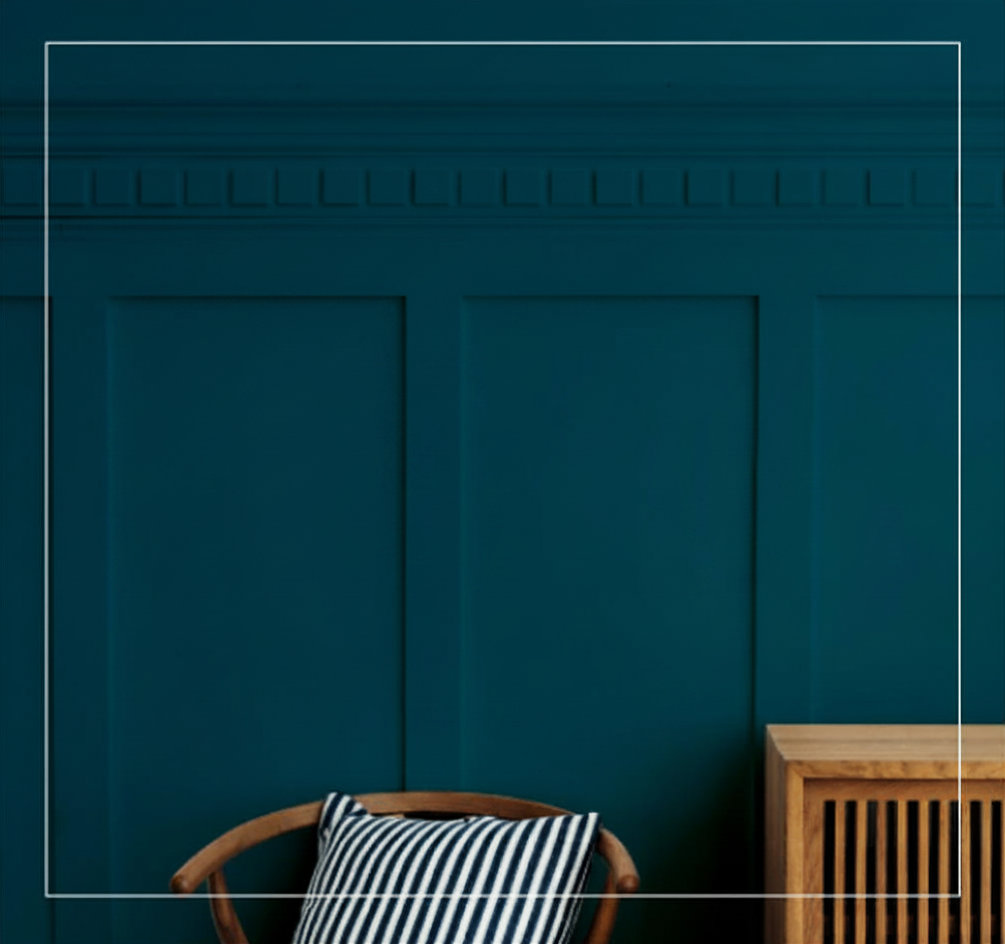
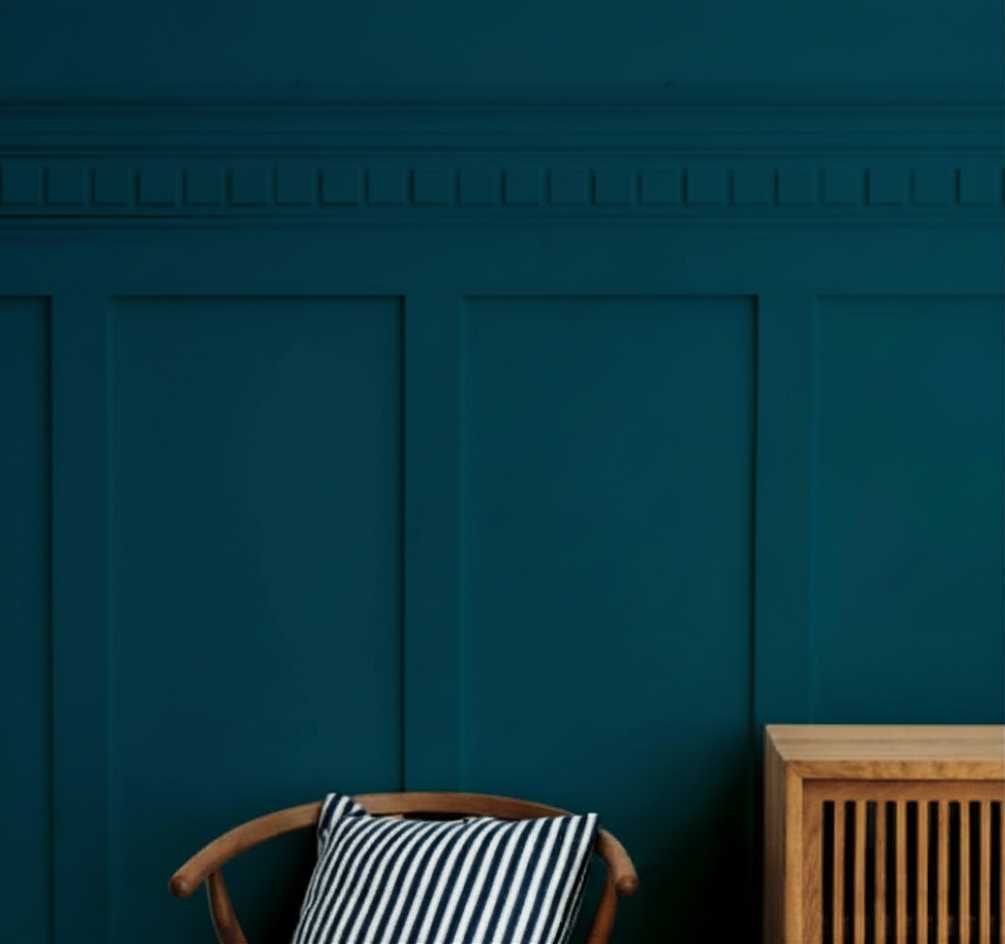
Added Testimonial section

Changed region(s): [[0.0308, 0.0307, 1.0, 1.0]]

diff --git a/src/components/ClientFeedback.tsx b/src/components/ClientFeedback.tsx
@@ -1,0 +1,98 @@
+import { ChevronLeft, ChevronRight, Quote, Star } from "lucide-react";
+import testimonialBg from "../assets/testimonial-bg.png";
+import feedbacks from "../static/feedbacks";
+
+export default function ClientFeedback() {
+    return (
+        <section
+            className="w-full py-16 lg:py-24 relative bg-[#F9F8F6]"
+            style={{
+                backgroundImage: `url(${testimonialBg})`,
+                backgroundSize: "cover",
+                backgroundPosition: "center",
+                backgroundRepeat: "no-repeat",
+            }}
+        >
+            <div className="max-w-7xl mx-auto px-4 md:px-8 lg:px-12 relative z-10">
+                {/* --- 1. Centered Section Header --- */}
+                <div className="text-center mb-12">
+                    <span className="inline-block bg-[#444] text-white text-[10px] font-bold px-3 py-1 tracking-widest uppercase mb-3">
+                        Testimonials
+                    </span>
+                    <h2 className="text-3xl md:text-4xl font-bold text-white">
+                        Client Feedback
+                    </h2>
+                </div>
+
+                {/* --- 2. Feedback Cards Grid --- */}
+                <div className="grid grid-cols-1 md:grid-cols-2 lg:grid-cols-3 gap-8">
+                    {feedbacks.map((feedback) => (
+                        <div
+                            key={feedback.id}
+                            className="bg-white p-8 md:p-10 rounded-sm shadow-sm hover:shadow-md transition-shadow duration-300 relative"
+                        >
+                            {/* Decorative Quote Icon Background */}
+                            <div className="absolute top-8 right-8 text-gray-100">
+                                <Quote
+                                    size={60}
+                                    fill="currentColor"
+                                    strokeWidth={0}
+                                />
+                            </div>
+
+                            <div className="relative z-10">
+                                {/* Star Rating */}
+                                <div className="flex items-center gap-1 mb-6">
+                                    {[...Array(5)].map((_, i) => (
+                                        <Star
+                                            key={i}
+                                            size={16}
+                                            className={
+                                                i < feedback.rating
+                                                    ? "fill-[#FFB340] text-[#FFB340]"
+                                                    : "fill-gray-200 text-gray-200"
+                                            }
+                                        />
+                                    ))}
+                                </div>
+
+                                {/* Comment Text */}
+                                <p className="text-gray-600 text-[15px] leading-relaxed mb-8 italic">
+                                    "{feedback.comment}"
+                                </p>
+
+                                {/* User Info (Avatar + Name) */}
+                                <div className="flex items-center gap-4">
+                                    <div className="w-14 h-14 rounded-full overflow-hidden border-2 border-[#EEDCC9]">
+                                        <img
+                                            src={feedback.image}
+                                            alt={feedback.name}
+                                            className="w-full h-full object-cover"
+                                        />
+                                    </div>
+                                    <div>
+                                        <h4 className="text-gray-900 font-bold text-[15px]">
+                                            {feedback.name}
+                                        </h4>
+                                        <span className="text-[#C69C6D] text-xs font-semibold">
+                                            {feedback.role}
+                                        </span>
+                                    </div>
+                                </div>
+                            </div>
+                        </div>
+                    ))}
+                </div>
+
+                <div className="flex justify-center items-center gap-4 mt-12">
+                    <button className="w-12 h-12 rounded-full border border-[#C69C6D] flex items-center justify-center text-white hover:bg-[#C69C6D] hover:text-white hover:border-[#C69C6D] transition-colors shadow-sm">
+                        <ChevronLeft size={24} strokeWidth={2} />
+                    </button>
+                    <button className="w-12 h-12 border border-[#C69C6D] rounded-full flex items-center justify-center text-white hover:bg-[#b0875b] transition-colors shadow-sm">
+                        <ChevronRight size={24} strokeWidth={2} />
+                    </button>
+                </div>
+            </div>
+        </section>
+    );
+}

diff --git a/src/components/SpecialOffers.tsx b/src/components/SpecialOffers.tsx
@@ -43,23 +43,26 @@ export default function SpecialOffers() {
 
     return (
         <section className="w-full py-8 mb-10">
-            <div className="grid grid-cols-1 lg:grid-cols-2 gap-8">
+            <div className="grid grid-cols-1 lg:grid-cols-4 gap-6 lg:gap-8">
                 <div
-                    className="rounded-sm relative overflow-hidden flex items-center min-h-85 p-8 md:p-12"
+                    className="lg:col-span-2 rounded-sm relative overflow-hidden flex items-center min-h-85 p-8 md:p-12"
                     style={{
                         backgroundColor: "#2D2E32",
                         backgroundImage: `url("${limitOfferImg}")`,
                         backgroundPosition: "right bottom",
-                        backgroundSize: "100%",
+                        backgroundSize: "100% 100%",
                         backgroundRepeat: "no-repeat",
                     }}
                 >
+                    {/* Inner White Border */}
+                    <div className="absolute inset-4 border border-white/20 pointer-events-none rounded-sm"></div>
+
                     {/* Text Content */}
-                    <div className="relative z-10 w-full max-w-[60%] lg:max-w-[55%]">
+                    <div className="relative z-10 w-full max-w-[80%] lg:max-w-[55%]">
                         <span className="text-gray-400 text-xs font-bold tracking-widest uppercase mb-3 block">
                             Hot Deal Furniture
                         </span>
-                        <h3 className="text-2xl md:text-3xl font-bold text-white mb-2 leading-tight">
+                        <h3 className="text-2xl md:text-4xl font-bold text-white mb-2 leading-tight">
                             Furniture Limit Offer
                         </h3>
                         <div className="text-4xl md:text-5xl font-bold text-white mb-8">
@@ -71,9 +74,8 @@ export default function SpecialOffers() {
                     </div>
                 </div>
 
-                {/* --- Banner 2: Deals Of The Week --- */}
                 <div
-                    className="rounded-sm relative overflow-hidden flex items-center min-h-85 p-8 md:p-12"
+                    className="lg:col-span-2 rounded-sm relative overflow-hidden flex items-center justify-center min-h-85 p-6 md:p-8"
                     style={{
                         backgroundColor: "#0D2627",
                         backgroundImage: `url("${dealsWeekImg}")`,
@@ -82,52 +84,52 @@ export default function SpecialOffers() {
                         backgroundRepeat: "no-repeat",
                     }}
                 >
-                    {/* Text Content */}
-                    <div className="relative z-10 w-full max-w-[60%] lg:max-w-[55%]">
-                        <span className="text-[#8FB3B4] text-xs font-bold tracking-widest uppercase mb-3 block">
+                    <div className="absolute inset-4 border border-white/20 pointer-events-none rounded-sm"></div>
+
+                    <div className="relative z-10 w-full">
+                        <span className="text-[#8FB3B4] text-[10px] md:text-xs font-bold tracking-widest uppercase mb-2 block">
                             Hot Deal Furniture
                         </span>
-                        <h3 className="text-2xl md:text-3xl font-bold text-white mb-6 leading-tight">
+                        <h3 className="text-xl md:text-2xl font-bold text-white mb-6 leading-tight">
                             Deals Of The Week
                         </h3>
 
-                        {/* Countdown Timer Boxes */}
-                        <div className="flex items-center gap-2 md:gap-3 mb-8">
-                            <div className="bg-white/10 backdrop-blur-sm border border-white/20 px-2 py-3 rounded-sm flex flex-col items-center justify-center min-w-12.5 md:min-w-15">
-                                <span className="text-white text-xl md:text-2xl font-bold">
+                        <div className="flex flex-wrap items-center gap-2 mb-6">
+                            <div className="bg-white/10 backdrop-blur-sm border border-white/20 px-2 py-2 rounded-sm flex flex-col items-center justify-center flex-1 min-w-12.5">
+                                <span className="text-white text-lg md:text-xl font-bold">
                                     {timeLeft.days}
                                 </span>
-                                <span className="text-gray-400 text-[9px] uppercase tracking-wider font-bold">
+                                <span className="text-gray-400 text-[8px] uppercase tracking-wider font-bold">
                                     Days
                                 </span>
                             </div>
-                            <div className="bg-white/10 backdrop-blur-sm border border-white/20 px-2 py-3 rounded-sm flex flex-col items-center justify-center min-w-12.5 md:min-w-15">
-                                <span className="text-white text-xl md:text-2xl font-bold">
+                            <div className="bg-white/10 backdrop-blur-sm border border-white/20 px-2 py-2 rounded-sm flex flex-col items-center justify-center flex-1 min-w-12.5">
+                                <span className="text-white text-lg md:text-xl font-bold">
                                     {timeLeft.hours}
                                 </span>
-                                <span className="text-gray-400 text-[9px] uppercase tracking-wider font-bold">
+                                <span className="text-gray-400 text-[8px] uppercase tracking-wider font-bold">
                                     Hrs
                                 </span>
                             </div>
-                            <div className="bg-white/10 backdrop-blur-sm border border-white/20 px-2 py-3 rounded-sm flex flex-col items-center justify-center min-w-12.5 md:min-w-15">
-                                <span className="text-white text-xl md:text-2xl font-bold">
+                            <div className="bg-white/10 backdrop-blur-sm border border-white/20 px-2 py-2 rounded-sm flex flex-col items-center justify-center flex-1 min-w-12.5">
+                                <span className="text-white text-lg md:text-xl font-bold">
                                     {timeLeft.minutes}
                                 </span>
-                                <span className="text-gray-400 text-[9px] uppercase tracking-wider font-bold">
+                                <span className="text-gray-400 text-[8px] uppercase tracking-wider font-bold">
                                     Mins
                                 </span>
                             </div>
-                            <div className="bg-white/10 backdrop-blur-sm border border-white/20 px-2 py-3 rounded-sm flex flex-col items-center justify-center min-w-12.5 md:min-w-15">
-                                <span className="text-white text-xl md:text-2xl font-bold">
+                            <div className="bg-white/10 backdrop-blur-sm border border-white/20 px-2 py-2 rounded-sm flex flex-col items-center justify-center flex-1 min-w-12.5">
+                                <span className="text-white text-lg md:text-xl font-bold">
                                     {timeLeft.seconds}
                                 </span>
-                                <span className="text-gray-400 text-[9px] uppercase tracking-wider font-bold">
+                                <span className="text-gray-400 text-[8px] uppercase tracking-wider font-bold">
                                     Secs
                                 </span>
                             </div>
                         </div>
 
-                        <button className="border border-white text-white hover:bg-[#8FB3B4] hover:border-[#8FB3B4] hover:text-gray-900 text-xs font-bold px-6 py-2.5 flex items-center gap-2 transition-colors w-max">
+                        <button className="border border-white text-white hover:bg-[#8FB3B4] hover:border-[#8FB3B4] hover:text-gray-900 text-[10px] md:text-xs font-bold px-5 py-2.5 flex items-center gap-2 transition-colors w-max">
                             BUY NOW <ChevronRight size={14} strokeWidth={2.5} />
                         </button>
                     </div>

diff --git a/src/static/feedbacks.tsx b/src/static/feedbacks.tsx
@@ -1,0 +1,33 @@
+import type { Feedback } from "../types";
+
+const feedbacks: Feedback[] = [
+    {
+        id: 1,
+        name: "Arlene McCoy",
+        role: "Customer",
+        comment:
+            "The furniture is absolutely stunning! It completely transformed my living room. The quality of the wood and the fabric is top-notch, and the delivery was super fast. Highly recommended!",
+        rating: 5,
+        image: "https://randomuser.me/api/portraits/women/44.jpg",
+    },
+    {
+        id: 2,
+        name: "Darrell Steward",
+        role: "Interior Designer",
+        comment:
+            "I frequently buy furniture for my clients from here. The modern designs and affordable pricing make it my go-to store. The customer support team is also very responsive.",
+        rating: 5,
+        image: "https://randomuser.me/api/portraits/men/32.jpg",
+    },
+    {
+        id: 3,
+        name: "Kristin Watson",
+        role: "Customer",
+        comment:
+            "Beautiful designs and very comfortable! I bought the Alexander Sofa and it is the best purchase I've made this year. It fits perfectly with my home aesthetics.",
+        rating: 4,
+        image: "https://randomuser.me/api/portraits/women/68.jpg",
+    },
+];
+
+export default feedbacks;

diff --git a/src/components/HotDealBanner.tsx b/src/components/HotDealBanner.tsx
@@ -1,33 +1,6 @@
 import { ChevronRight, Star } from "lucide-react";
 import livingRoomImg from "../assets/living-room-bg.jpg";
-
-// Hotspot Data
-const hotspots = [
-    {
-        id: 1,
-        top: "68%",
-        left: "45%", // Table kita
-        name: "Dining Table",
-        rating: 4,
-        price: 190.0,
-    },
-    {
-        id: 2,
-        top: "45%",
-        left: "75%", // Sofa kita
-        name: "Seater Gray Sofa",
-        rating: 5,
-        price: 300.0,
-    },
-    {
-        id: 3,
-        top: "49%",
-        left: "30%",
-        name: "Cafe Table",
-        rating: 4,
-        price: 450.0,
-    },
-];
+import hotspots from "../static/hotspots";
 
 export default function HotDealBanner() {
     return (

diff --git a/src/static/hotspots.tsx b/src/static/hotspots.tsx
@@ -1,0 +1,28 @@
+const hotspots = [
+    {
+        id: 1,
+        top: "68%",
+        left: "45%", // Table kita
+        name: "Dining Table",
+        rating: 4,
+        price: 190.0,
+    },
+    {
+        id: 2,
+        top: "45%",
+        left: "75%", // Sofa kita
+        name: "Seater Gray Sofa",
+        rating: 5,
+        price: 300.0,
+    },
+    {
+        id: 3,
+        top: "49%",
+        left: "30%",
+        name: "Cafe Table",
+        rating: 4,
+        price: 450.0,
+    },
+];
+
+export default hotspots;

diff --git a/src/types/index.ts b/src/types/index.ts
@@ -1,4 +1,4 @@
-export default interface Product {
+export interface Product {
     id: number;
     name: string;
     price: number;
@@ -6,5 +6,14 @@ export default interface Product {
     discount?: string | null;
     badge?: string | null;
     badgeColor?: string;
+    image: string;
+}
+
+export interface Feedback {
+    id: number;
+    name: string;
+    role: string;
+    comment: string;
+    rating: number;
     image: string;
 }

diff --git a/src/App.tsx b/src/App.tsx
@@ -1,3 +1,4 @@
+import ClientFeedback from "./components/ClientFeedback";
 import FeaturedProducts from "./components/FeaturedProducts";
 import Features from "./components/Features";
 import Hero from "./components/Hero";
@@ -21,10 +22,12 @@ function App() {
 
             <HotDealBanner />
 
-            <div className="max-w-[1280px] mx-auto px-4 md:px-8 lg:px-12">
+            <div className="max-w-7xl mx-auto px-4 md:px-8 lg:px-12">
                 <TrendyCollection />
                 <SpecialOffers />
             </div>
+
+            <ClientFeedback />
         </div>
     );
 }

diff --git a/src/components/ProductCard.tsx b/src/components/ProductCard.tsx
@@ -1,5 +1,5 @@
 import { Star } from "lucide-react";
-import type Product from "../types";
+import type { Product } from "../types";
 
 export default function ProductCard({ product }: { product: Product }) {
     // Check if it has a badge or discount

diff --git a/src/components/ProductGrid.tsx b/src/components/ProductGrid.tsx
@@ -1,4 +1,4 @@
-import type Product from "../types";
+import type { Product } from "../types";
 import ProductCard from "./ProductCard";
 
 interface ProductGridProps {

diff --git a/src/static/trendyProducts.tsx b/src/static/trendyProducts.tsx
@@ -6,7 +6,7 @@ import nobodyArmChair from "../assets/leather-chair.png";
 import realisticSofa from "../assets/realistic-sofa.png";
 import alexanderSofa from "../assets/sofa.png";
 import woodenChair from "../assets/wooden-chair.png";
-import type Product from "../types";
+import type { Product } from "../types";
 
 const trendyProducts: Product[] = [
     {